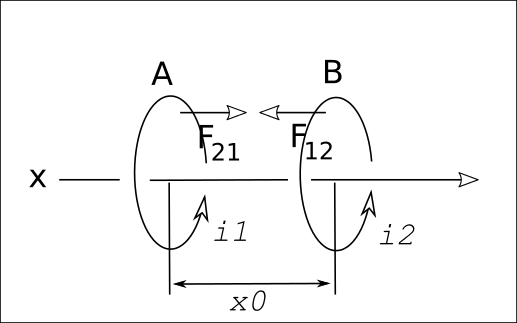
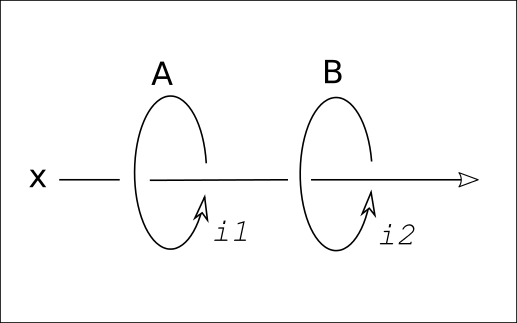
the rest of the images plus text corrections and few additions

Changed region(s): [[0.3095, 0.5882, 0.6499, 0.9598], [0.3404, 0.3096, 0.6499, 0.4954]]

diff --git a/how-it-works.html b/how-it-works.html
@@ -180,7 +180,8 @@ where `K` is coefficient which depends on the geometry of the system and is cons
 In the simple system we have set up, these two forces will be colinear with the `x` axis.
 </p>
 
-[Fig. 03]
+<img class="img-responsive center-block" src="figures/fig03.png" alt="Figure 03."> 
+<p class="text-center">Figure 03.</p>
 
 <p>
 Resultant force on the entire system is:
@@ -214,7 +215,8 @@ If we start chaging current `i_1` and/or `i_2` strength, forces `F_12` and `F_21
 In order to illustrate principle of EMC operation, we will observe a simple case where current `i_1` is constant and current `i_2` increasing in linear fashion.
 </p>
 
-[Fig. 04]
+<img class="img-responsive center-block" src="figures/fig04.png" alt="Figure 04."> 
+<p class="text-center">Figure 04.</p>
 
 <p>
 In the moment `t_1`, we would have:
@@ -225,17 +227,19 @@ In the moment `t_1`, we would have:
 <br/>
 `F_21(t_1) = K * i_1(t_1) * i_2(t_1)`
 <br/>
-`F_r(t_1) = F_12(t_1) + F_21(t_1) = K * i_2(t_1) * i_1(t_1) - K * i_1(t_1) * i_2(t_1) = 0`
+<br/>
+`F_r(t_1) = F_12(t_1) + F_21(t_1)`
+<br/>&nbsp;&nbsp;&nbsp;`= K * i_2(t_1) * i_1(t_1) - K * i_1(t_1) * i_2(t_1) = 0`
 </div>
 
 <p>
-Here we come to the key points for EMC operation. First point is: forces `F_21` and `F_12` are a result of interaction between electric current and a magnetic field, and not a result of interaction with another electric current. And the second: changes in magnetic field in vacuum propagate at the speed of light.
+Here we come to the key points for EMC operation. First point is: forces `F_21` and `F_12` are a result of interaction between electric current and magnetic field, and not a result of interaction with another electric current. And the second one: changes in magnetic field in vacuum propagate at the speed of light.
 </p>
 <p>
-This effectively means that, as electric current `i_2` steadily rises, force `F_12` on coil `B` will be proportional to value of the `i_2` in moment `t_1` and the value of `i_1`.
+This effectively means that, as electric current `i_2` steadily rises, force `F_12` on coil `B` will be proportional to value of the `i_2` in moment `t_1` and to the value of `i_1`.
 </p>
 <p>
-However, force `F_21` on coil `A` will be proportional to the value of `i_1` in moment `t_1` and the value of `i_2` in moment `t_0`. Reason for this is that, in moment `t_1`, current `i_1` interacts with the magnetic field produced by `i_2` in `t_0`. Difference `Delta t = t_1 - t_0` is equal to the time that is needed for change in magnetic field to propagate from coil `B` to coil `A` and is equal to `(Delta x) / c`, where `c` is the speed of light in vacuum.
+However, force `F_21` on coil `A` will be proportional to the value of `i_1` in moment `t_1` and the value of `i_2` in moment `t_0`. Reason for this is that, in moment `t_1`, current `i_1` interacts with the magnetic field produced by `i_2` in `t_0`. Difference `Delta t = t_1 - t_0` is equal to the time that is needed for change in magnetic field to propagate from coil `B` to coil `A` and is equal to `x_0 / c`, where `c` is the speed of light in vacuum.
 </p>
 <p>
 This means that forces `F_12` and `F_21` in moment `t_1` are equal to:
@@ -246,36 +250,49 @@ This means that forces `F_12` and `F_21` in moment `t_1` are equal to:
 <br/>
 `F_21(t_1) = K * i_1(t_1) * i_2(t_0)`
 <br/>
-`F_r(t_1) = F_12(t_1) + F_21(t_1) = K * i_2(t_1) * i_1(t_1) - K * i_1(t_1) * i_2(t_0) = K * i_1(t_1) * ( i_2(t_1) - i_2(t_0) ) != 0`
+<br/>
+`F_r(t_1) = F_12(t_1) + F_21(t_1)`
+<br/>&nbsp;&nbsp;&nbsp;`= K * i_2(t_1) * i_1(t_1) - K * i_1(t_1) * i_2(t_0)`
+<br/>&nbsp;&nbsp;&nbsp;`= K * i_1(t_1) * ( i_2(t_1) - i_2(t_0) ) != 0`
 </div>
 
 <p>
 Here it turns out that the resultant force is not equal to zero, since current `i_2` changes and `i_2(t_1) != i_2(t_0)`.
 </p>
 <p>
-If current `i_2` rises net force will be positive, which in this setup means it will be directed along `x` axis, left-to-right.
+If current `i_2` rises, net force will be negative, which in this setup means it will be directed along `x` axis, right-to-left.
+</p>
+<p>
+<div class="well">
+<small>
+<em>NOTE:</em><br/>
+Even though `i_2(t_1) > i_2(t_0)`, the force will be negative because coefficient `K` is actually negative. We choose to do so just to avoid dragging the minus sign through all the equations.
+</small>
+</div>
 </p>
 
 <h3 class="bg-heading3">Constant net force for the simple case of non-constant currents</h3>
 <p>
-Goal here is to have EMC produce a net force, if not constant, then at least directed in the same direction during operation.
+Goal here is to have EMC produce a net force, if not constant, then at least directed in the same direction at all times during operation.
 </p>
 <p>
 It turns out this is fairly simple to achieve by using the following wave forms for currents `i_1` and `i_2`:
 </p>
 
-[Fig 05]
+<img class="img-responsive center-block" src="figures/fig05.png" alt="Figure 05."> 
+<p class="text-center">Figure 05.</p>
+
 <p>
 The wave forms are divided into 8 segments in such a way that for each segment only one of the currents is linearly changing while the other one is constant. Crossing zero point and changing sign means that an electric current is changing direction in the conductive wire coil.
 </p>
 <p>
-By using same reasoning from previous section and taking into account when electric currents are positive and when they're negative, it is easy to conclude that the net force `F_r` is always positive and constant in value, which means it is always directed from left to right on our diagram in Figure 03.
+By using the same reasoning from previous section (which corresponds to the case in segment 1) and taking into account when electric currents are positive and when they're negative, it is easy to conclude that the net force `F_r` is always negative and constant in value, which means it is always directed from right to left on our diagram in Figure 03.
 </p>
 <p>
 Detailed analysis will not be given here since it is simple repetiton of reasoning from previous section, making sure to take into account when electric currents are positive/negative and a fact that in some segments `i_1` is constant (positive or negative) and `i_2` is changing (rising or falling, which makes `i_2(t_1) - i_2(t_0)` positive or negative) and in others it is the other way around.
 </p>
 <p>
-Forces `F_12` and `F_21` are changing directions as currents change from positive to negative and back, but the net result stays positive and constant.
+Forces `F_12` and `F_21` are changing directions as currents change from positive to negative and back, but the net result stays negative and constant.
 </p>
 
 
@@ -299,14 +316,15 @@ It is fairly obvious that Figure 05 resembles two sine waves shifted by 90 degre
 In order to come up with quantitative estimate of the net force, we will again work with two wire coils, `A` and `B`, placed co-axially along `x`-axis. We will also place coil `A` to be at the `x`-axis zero point and coil `B` at the distance `x_0`. Each coil will have only one turn of conductive wire. Coil `A` will carry electrical current `i_1` and coil `B` current `i_2`.
 </p>
 
-[Fig. 06]
+<img class="img-responsive center-block" src="figures/fig06.png" alt="Figure 06."> 
+<p class="text-center">Figure 06.</p>
 
 
 <h3 class="bg-heading3">Calculus</h3>
 
 <h4 class="bg-heading4">Calculus setup</h4>
 <p>
-We will use formula of calculatin magnetic force on a wire coil via magnetic flux:
+We will use the formula of calculating a magnetic force on a wire coil via magnetic flux:
 </p>
 <div class="well well-sm">
 `F = i * d/dx Phi`
@@ -431,16 +449,18 @@ Taking all this into account, magnetic flux for coils becomes:
 <h4 class="bg-heading4">Putting it all together</h4>
 
 <p>
-Since we will need derivative of `M(x)` in order to get final formula for net force, let's take a look at how `M(x)` function looks like in general case:
+Since we will need derivative of `M(x)` in order to get the final formula for net force, let's take a look at how `M(x)` function looks like in general case:
 </p>
 
-[Fig. 07]
+<img class="img-responsive center-block" src="figures/fig07.png" alt="Figure 07."> 
+<p class="text-center">Figure 07.</p>
 
 <p>
 First derivative `d/dx M(x)` would then look like this:
 </p>
 
-[Fig. 08]
+<img class="img-responsive center-block" src="figures/fig08.png" alt="Figure 08."> 
+<p class="text-center">Figure 08.</p>
 
 <p>
 It is important to note here that:
@@ -543,13 +563,13 @@ in which case we can assume:
 `cos ( k * x_0 ) ~~ 1`
 </div>
 <p>
-and since
+and since it is:
 </p>
 <div class="well well-sm">
 `k = 2 * pi / lambda`
 </div>
 <p>
-for the case when distance between the two coils is much smaller than the wavelength, we have:
+then, for the case when distance between the two coils is much smaller than the wavelength, we will have:
 </p>
 
 <div class="well well-sm">
@@ -587,34 +607,53 @@ To estimate the net force, we will assume:
 We can say that, in general, the net force is about million times smaller than the product of maximum current values in both coils.
 </p>
 <p>
-Using finite element analysis we can calculate net force on arbitraty coil geometries and, in general case, above estimate turns out to be correct.
+Using finite element analysis we can calculate net force on arbitraty coil geometries and, in general case, above estimate turns out to be satisfactory.
 </p>
 
 <h2 class="bg-heading2">Conclusion(s)</h2>
 <p>
-Since the net force produced by EMC is practically negligible, pondering further on EMC characteristics would be a not practical thing to do. However, since it provides loads of fun for the nerds and other similar Earthly creatures, we'll do it anyways.
+Since the net force produced by EMC is practically negligible, pondering further on EMC characteristics would be practically un-practical. However, since it provides loads of fun for the nerds and other similar Earthly creatures, I did it anyways.
 </p>
 <p>
-Going into further analysis of EMC work it turns out that:
+It turns out, among other things, that:
 </p>
 <ul>
 <li>
 Enormous electrical power is required to produce thrust of any practical value
 </li>
 <li>
-Frequencies of electrical currents in both coils have to be exactly the same, otherwise net force would oscillate and change direction with frequency equal to difference between `i_1` and `i_2` current frequencies. This means both coils have to be powered from the same generator
+Frequencies of electrical currents in both coils have to be exactly the same, otherwise net force would oscillate and change direction with frequency equal to the difference between `i_1` and `i_2` current frequencies. This means both coils have to be powered from the same generator
 </li>
 <li>
-Maximum thrust is achieved when `i_1` and `i_2` have 90 degree phase shift. To reverse thrust, all we have to do is change the phase shift for 180 degrees
+Maximum thrust is achieved when `i_1` and `i_2` have 90 degree phase shift. To reverse thrust, all we have to do is change the phase shift for 180 degrees (to -90 or +270 electrical degrees)
 </li>
 <li>
 Coils don't have to be miniature or very small compared to the wavelength. Calculating net force in that case requires FEA numerical calculations
 </li>
 <li>
-In order to produce sinusoidal electric current in the coils, one can use square wave voltage which means coils can be powered through some variant of switched mode power supply
+In order to produce sinusoidal electric current in the coils, one can use square wave drive voltage, which means coils can be powered through some variant of switched mode power supply
 </li>
 </ul>
 
+<p>
+There were quite a bit more points and notes and thingies, but I'm just too lazy to retype them all here...
+</p>
+
+        </div> <!-- panel-body -->
+    </div> <!-- panel -->
+    </div>
+    <div class="col-xs-1">&nbsp;</div>
+
+    </div> <!-- row -->
+
+
+    <div class="row">
+
+    <div class="col-xs-1">&nbsp;</div>
+    <div class="col-xs-10">
+    <div class="panel panel-default">
+        <div class="panel-body">
+        And now, you can leave your comments and thoughts and other brainly produces in the <a href="comments.html">comments</a>.
         </div> <!-- panel-body -->
     </div> <!-- panel -->
     </div>

diff --git a/index.html b/index.html
@@ -167,7 +167,10 @@ This could be a challenge.
 </p>
 <p>For you.</p>
 <p>
-You could find the error in the theory or in the math, if there is one.
+Your mission, should you choose to accept it, is:
+</p>
+<p>
+To find the error in the theory or in the math, if there is one.
 </p>
 <p>
 Or build that POC.
@@ -194,6 +197,23 @@ The challenge is out...
 ...and you can get the details about how EMC works right <a href="how-it-works.html"><strong>here</strong></a>.
 </p>
 
+        </div> <!-- panel-body -->
+    </div> <!-- panel -->
+    </div>
+    <div class="col-xs-1">&nbsp;</div>
+
+    </div> <!-- row -->
+
+    <div class="row">
+
+    <div class="col-xs-1">&nbsp;</div>
+    <div class="col-xs-10">
+    <div class="panel panel-default">
+        <div class="panel-body">
+        This message will self-destruct in 5 seconds.
+        <br/>
+        <br/>
+        Unless you swiftly navigate to the <a href="how-it-works.html">next page</a>.
         </div> <!-- panel-body -->
     </div> <!-- panel -->
     </div>
